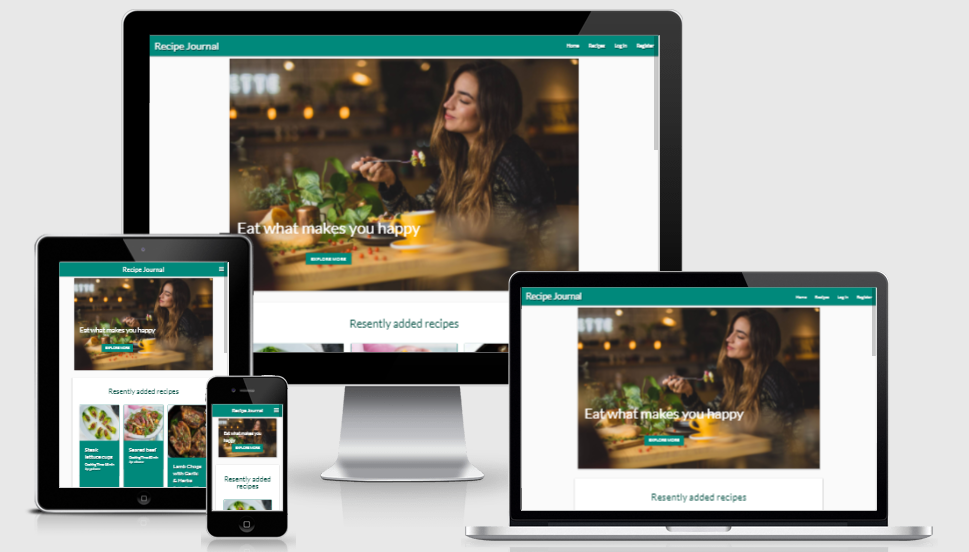
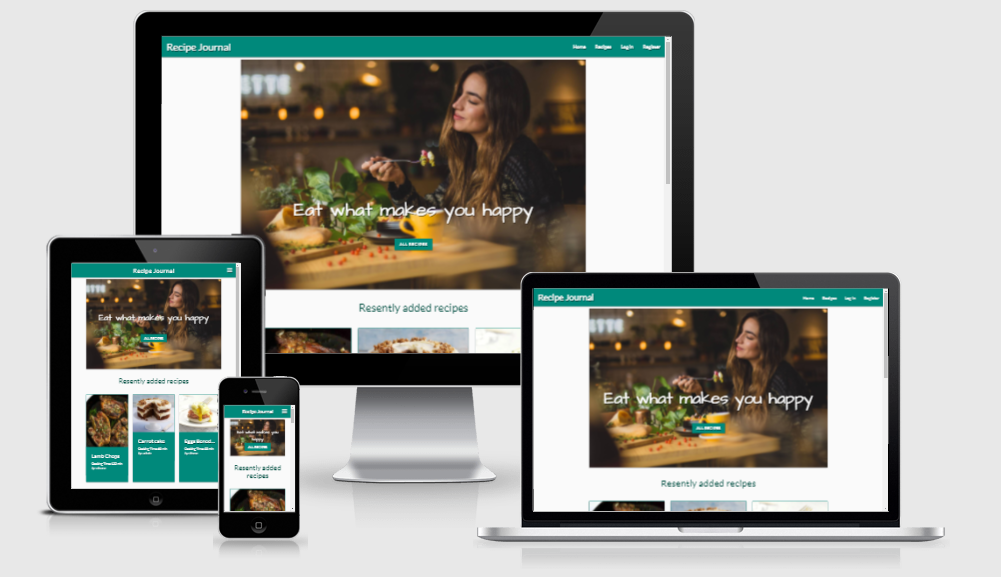
Add description of app and typography

diff --git a/README.md b/README.md
@@ -1,7 +1,7 @@
 # **Recipe Journal App**
 [View the live project here.](https://recipe-journal-project.herokuapp.com/)
 
-This is the main marketing website for Admin to promote a brand of cooking tools.
+This is a community app for sharing recipes and for owner to promote a e-commerce website with kitchen tools for sale.
 
 ![Recipe Journal](static/images/recipe-journal.png)
 ## **User Experience (UX)**
@@ -23,8 +23,7 @@ This is the main marketing website for Admin to promote a brand of cooking tools
         - Two colours used for the site- primary colour is teal, secondary is dark-orange.
         
     * **Typography**
-        - Lato font was used throughout all website with Sans Serif as the fallback font in case chosen fond is not imported correctly. Lato looks attractive and easy to read.
-        
+        - The Lato and Architects Daughter fonts were used at website with Sans Serif and cursive as the fallback fonts accordingly, in case chosen fonds are not imported correctly. The Lato is the main font, Architects Daughter was used for the headingHero image text. Both of chosen fonts look attractive and easy to read.
     * **Imagery**
         - The large warm background image is designed to catch the user's eye.
 
